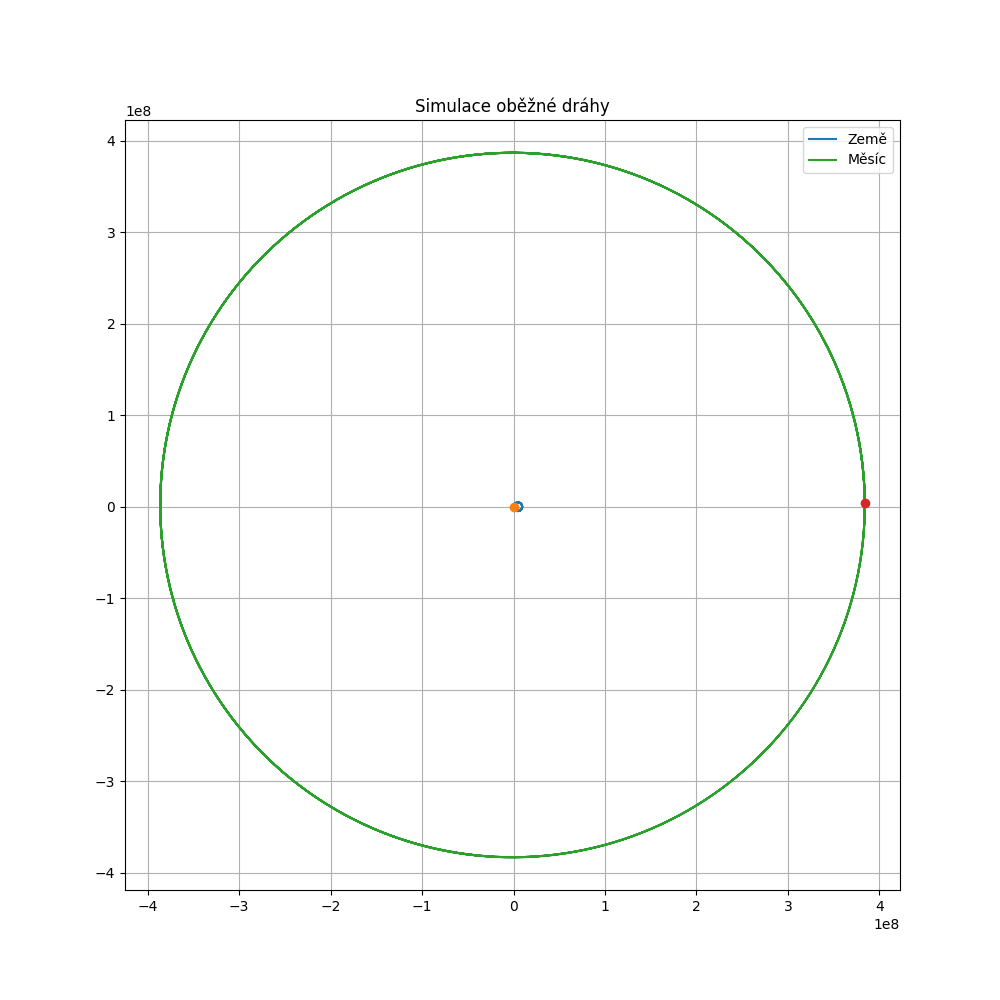
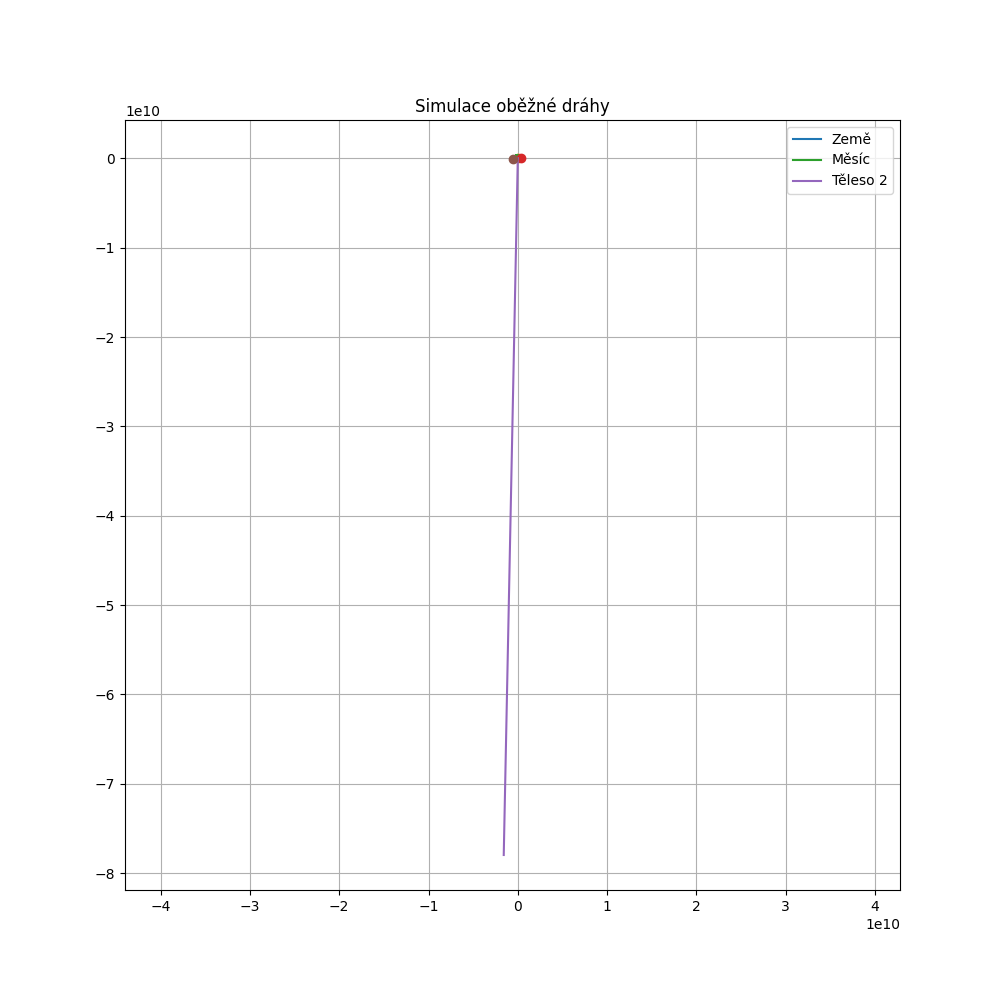
Funkční vizualizace

diff --git a/src/engine.py b/src/engine.py
@@ -1,4 +1,7 @@
+import matplotlib
+matplotlib.use('TkAgg')
 import matplotlib.pyplot as plt
+from matplotlib.animation import FuncAnimation
 from .vector import Vector
 from .body import Body
 
@@ -60,39 +63,130 @@ class SimulationEngine:
             new_acc = new_accelerations[i]
             
             body.update_velocity(self.dt, new_acc)
-
-    def run_simulation(self, steps: int):
-        print(f"Počítám {steps} kroků fyziky...")
-        history = [ {'x': [], 'y': []} for _ in self.bodies ]
-
-        for _ in range(steps):
-            self.step()
-            for i, body in enumerate(self.bodies):
-                history[i]['x'].append(body.position.x)
-                history[i]['y'].append(body.position.y)
-
-        print("Výpočet dokončen. Vykresluji graf...")
-        self._plot_results(history)
-
-    def _plot_results(self, history):
-        plt.figure(figsize=(10, 10))
-        names = ['Země', 'Měsíc']
+    """
+    def animate(self, total_frames=500, steps_per_frame=20):
+        print("Připravuji animaci s dráhami...")
         
+        fig, ax = plt.subplots(figsize=(10, 10))
+        
+        # Limit grafu (nastavíme podle nejvzdálenějšího tělesa)
+        # Zvětšil jsem ho na 4.5e8, aby se tam hezky vešly oba měsíce
+        limit = 4.5e8 
+        ax.set_xlim(-limit, limit)
+        ax.set_ylim(-limit, limit)
+        ax.set_aspect('equal')
+        ax.grid(True)
+        ax.set_title("Živá N-Body Simulace")
+
+        colors = ['blue', 'green', 'red', 'purple', 'orange']
+        sizes = [12, 8, 6, 5, 5] 
+
+        self.dots = []
+        self.trails = [] # ### NOVÉ ###
+        
+        # ### NOVÉ ###: Připravíme si paměť na historii poloh pro všechna tělesa
+        # history = [ {'x': [seznam x souřadnic], 'y': [seznam y souřadnic]}, ... ]
+        self.history = [ {'x': [], 'y': []} for _ in self.bodies ]
+
+        # Inicializace grafických objektů (tečky a čáry)
         for i in range(len(self.bodies)):
-            plt.plot(history[i]['x'], history[i]['y'], label=names[i] if i < len(names) else f'Těleso {i}')
-            # Tečka na začátku dráhy
-            plt.plot(history[i]['x'][0], history[i]['y'][0], 'o')
+            color = colors[i % len(colors)]
+            
+            # 1. Vytvoříme objekt pro ČÁRU (trail) ### NOVÉ ###
+            # '-' znamená plná čára, linewidth=1 je tenká, alpha=0.6 je trochu průhledná
+            trail, = ax.plot([], [], '-', color=color, linewidth=1, alpha=0.6)
+            self.trails.append(trail)
 
-        plt.axis('equal')
-        plt.grid(True)
-        plt.legend()
-        plt.title("Simulace oběžné dráhy")
+            # 2. Vytvoříme objekt pro TEČKU (dot)
+            # zorder=5 zajistí, že tečka bude vykreslena "nad" čárou
+            dot, = ax.plot([], [], 'o', color=color, markersize=sizes[i % len(sizes)], zorder=5)
+            self.dots.append(dot)
+
+        def update(frame_number):
+            # Spočítáme fyziku
+            for _ in range(steps_per_frame):
+                self.step()
+
+            # Aktualizujeme grafiku
+            for i, body in enumerate(self.bodies):
+                # A) Přidáme aktuální polohu do historie ### NOVÉ ###
+                self.history[i]['x'].append(body.position.x)
+                self.history[i]['y'].append(body.position.y)
+
+                # B) Aktualizujeme ČÁRU (pošleme jí celou historii) ### NOVÉ ###
+                self.trails[i].set_data(self.history[i]['x'], self.history[i]['y'])
+                
+                # C) Aktualizujeme TEČKU (pošleme jí jen aktuální bod [x], [y])
+                self.dots[i].set_data([body.position.x], [body.position.y])
+            
+            # Matplotlib musí vědět, co všechno se změnilo.
+            # Vracíme spojený seznam čar a teček. ### NOVÉ ###
+            return self.trails + self.dots
+
+        # Spuštění animace (blit=False pro jistotu na Macu)
+        self.ani = FuncAnimation(fig, update, frames=total_frames, 
+                                 interval=20, blit=False, repeat=False)
         
-        # Uložíme obrázek
-        plt.savefig("vysledek_simulace.png")
-        print("Graf uložen jako 'vysledek_simulace.png'")
+        print("Spouštím okno s animací...")
+        plt.show()
+        """
+    def animate(self, total_frames=500, steps_per_frame=20, plot_limit=None):
+        print("Připravuji animaci...")
         
-        try:
-            plt.show()
-        except:
-            pass
+        fig, ax = plt.subplots(figsize=(10, 10))
+        
+        # --- ZMĚNA ZDE: INTELIGENTNÍ ZOOM ---
+        # Pokud nám někdo řekne limit (např. pro figure-8), použijeme ho.
+        # Pokud ne, použijeme ten obrovský pro sluneční soustavu.
+        if plot_limit is not None:
+            limit = plot_limit
+        else:
+            limit = 4.5e8 # Výchozí pro Sluneční soustavu
+            
+        ax.set_xlim(-limit, limit)
+        ax.set_ylim(-limit, limit)
+        ax.set_aspect('equal')
+        ax.grid(True)
+        ax.set_title("N-Body Simulace")
+
+        colors = ['blue', 'green', 'red', 'purple', 'orange']
+        sizes = [12, 12, 12, 5, 5] # Zvětšil jsem tečky pro Figure-8
+
+        self.dots = []
+        self.trails = [] 
+        
+        # Reset historie
+        self.history = [ {'x': [], 'y': []} for _ in self.bodies ]
+
+        for i in range(len(self.bodies)):
+            color = colors[i % len(colors)]
+            trail, = ax.plot([], [], '-', color=color, linewidth=1, alpha=0.6)
+            self.trails.append(trail)
+            dot, = ax.plot([], [], 'o', color=color, markersize=sizes[i % len(sizes)], zorder=5)
+            self.dots.append(dot)
+
+        def update(frame_number):
+            for _ in range(steps_per_frame):
+                self.step()
+
+            for i, body in enumerate(self.bodies):
+                # Omezení délky stopy na 500 bodů, ať se to neseká
+                limit_trail = 500 
+                
+                self.history[i]['x'].append(body.position.x)
+                self.history[i]['y'].append(body.position.y)
+
+                self.trails[i].set_data(
+                    self.history[i]['x'][-limit_trail:], 
+                    self.history[i]['y'][-limit_trail:]
+                )
+                self.dots[i].set_data([body.position.x], [body.position.y])
+            
+            return self.trails + self.dots
+
+        self.ani = FuncAnimation(fig, update, frames=total_frames, 
+                                 interval=20, blit=True, repeat=False)
+        
+        print("Spouštím okno s animací...")
+        plt.show()
+        

diff --git a/main.py b/main.py
@@ -1,54 +1,88 @@
 # --- IMPORTY ---
 # Importujeme naše vlastní třídy, které jsme vytvořili ve složce src.
 # Díky tomu je hlavní soubor čistý a přehledný.
+import src.engine
 from src.vector import Vector
 from src.body import Body
 from src.engine import SimulationEngine 
-
+#"""
 def run_simulation():
-    """
-    Hlavní funkce, která nastaví a spustí simulaci soustavy Země-Měsíc.
-    """
+    
     print("--- START SIMULACE (Země + Měsíc) ---")
     
     # --- 1. VYTVOŘENÍ TĚLES ---
     
    # ZEMĚ:
-    # Abychom vyrušili pohyb Měsíce, musí mít Země opačnou hybnost.
-    # Hybnost (p) = m * v
-    # p_země musí být rovno -p_měsíce
-    # v_země = -(m_měsíce * v_měsíce) / m_země
-    # v_země = -(7.34e22 * 1020) / 5.97e24 = cca -12.54 m/s
     
     earth = Body(
         mass=5.97e24, 
         position=Vector(0.0, 0.0, 0.0),
-        velocity=Vector(0.0, -12.54, 0.0)
+        velocity=Vector(0.0, -15, 0.0)
     )
     
-    # MĚSÍC:
-    # Hmotnost: 7.34 * 10^22 kg
-    # Poloha: 384 400 km od Země (na ose X) -> 3.84e8 metrů
-    # Rychlost: cca 1020 m/s (na ose Y)
-    # DŮLEŽITÉ: Rychlost musí být kolmá na směr k Zemi, aby Měsíc začal obíhat.
-    # Kdyby byla rychlost 0, Měsíc by okamžitě spadl na Zemi.
-    moon = Body(
-        mass=7.34e22, 
-        position=Vector(3.84e8, 0.0, 0.0), 
-        velocity=Vector(0.0, 1020.0, 0.0) 
+    # OBJEKT1
+    
+    moon1 = Body(
+        mass=7.34e23, 
+        position=Vector(3.84e8, 0, 0), 
+        velocity=Vector(0, 1020, 0) 
     )
     
-
+    # OBJEKT2
+    
+    moon2 = Body(
+        mass=5.0e21,  # Je lehčí
+        position=Vector(-2.0e8, 0, 0), # Je na druhé straně (vlevo)
+        velocity=Vector(0, -1500, 0)   
+    )
     
     # Vytvoříme seznam těles, která chceme simulovat
-    bodies_list = [earth, moon]
+    bodies_list = [earth, moon1, moon2]
     
     # Inicializujeme engine.
-    # dt=3600.0 znamená, že jeden krok simulace = 1 hodina ve skutečnosti.
-    # Čím menší číslo, tím přesnější simulace, ale trvá déle.
-    engine = SimulationEngine(bodies_list, dt=3600.0)
-    engine.run_simulation(steps=2500)
     
+    # Čím menší číslo, tím přesnější simulace, ale trvá déle.
+    engine = SimulationEngine(bodies_list, dt=50.0)
+    engine.animate(total_frames=2000, steps_per_frame = 150)
+    """
+def run_figure_8():
+    print("--- START: FIGURE-8 ---")
+    
+    # --- TRIK: PŘEPNUTÍ NA MATEMATICKÉ JEDNOTKY ---
+    # Aby tato specifická dráha fungovala, je snazší nastavit G=1,
+    # než přepočítávat ty šílené konstanty na kilogramy.
+    src.engine.G = 1.0 
+    
+    # PŘESNÉ MATEMATICKÉ KONSTANTY PRO "FIGURE-8"
+    # Pozice (x, y)
+    p_x = 0.97000436
+    p_y = 0.24308753
+    # Rychlost (vx, vy) - musí být takto přesná!
+    v_x = 0.4662036850 
+    v_y = 0.4323657300
+
+    # Tři tělesa o hmotnosti 1.0
+    # Mají symetrické pozice a rychlosti
+    
+    # Těleso 1 (střed)
+    body1 = Body(mass=1.0, position=Vector(0.001,0,0), velocity=Vector(-2*v_x, -2*v_y, 0))
+    
+    # Těleso 2 (vpravo)
+    body2 = Body(mass=1.0, position=Vector(p_x, -p_y, 0), velocity=Vector(v_x, v_y, 0))
+    
+    # Těleso 3 (vlevo)
+    body3 = Body(mass=1.0, position=Vector(-p_x, p_y, 0), velocity=Vector(v_x, v_y, 0))
+
+    bodies_list = [body1, body2, body3]
+
+    # --- NASTAVENÍ ENGINE --- 
+    # Potřebujeme extrémně malé číslo
+    engine = SimulationEngine(bodies_list, dt=0.001)
+    
+    # Spustíme to
+    # steps_per_frame musí být vysoké, protože dt je malinké
+    engine.animate(total_frames=2000, steps_per_frame=2000, plot_limit=1.5)
+    """
 # Tento blok zajistí, že se simulace spustí jen tehdy, když tento soubor zapneme přímo (ne když ho importujeme jinam).
 if __name__ == '__main__':
     run_simulation()
